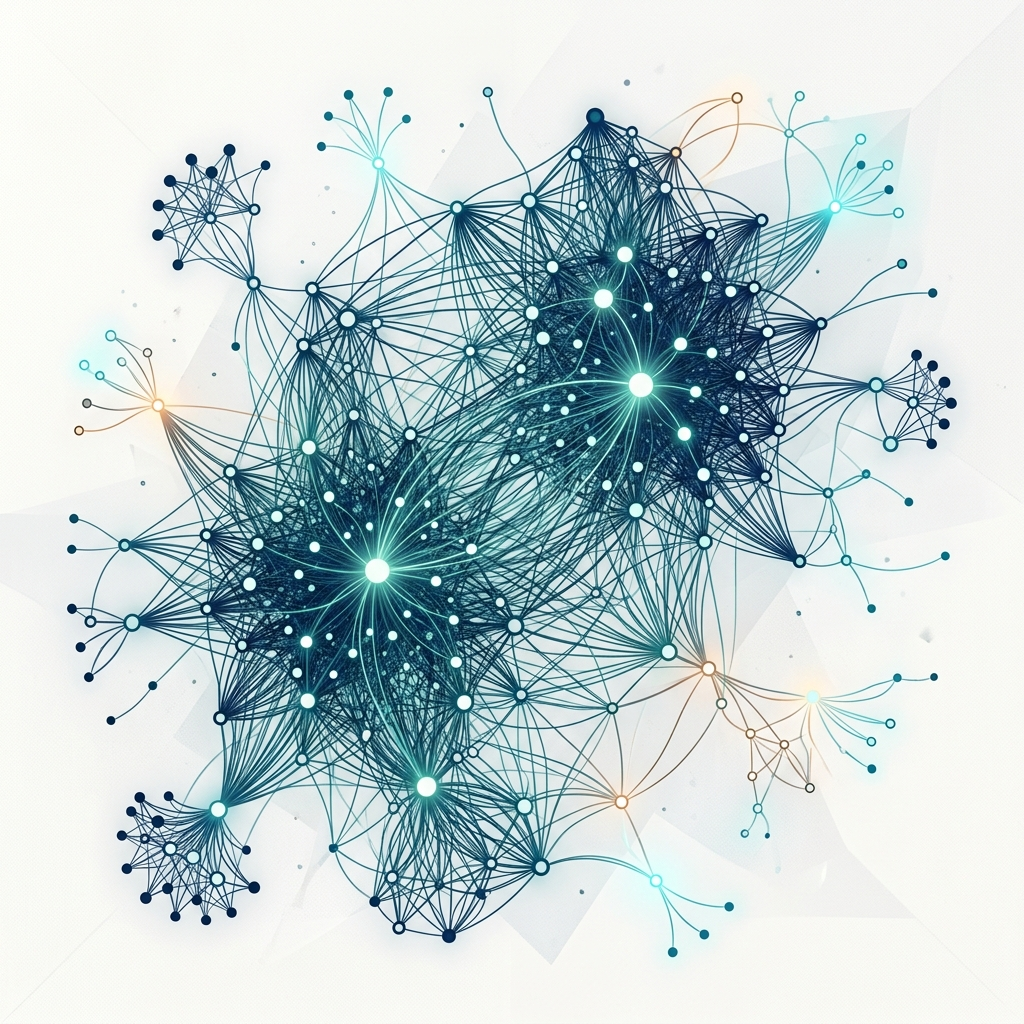
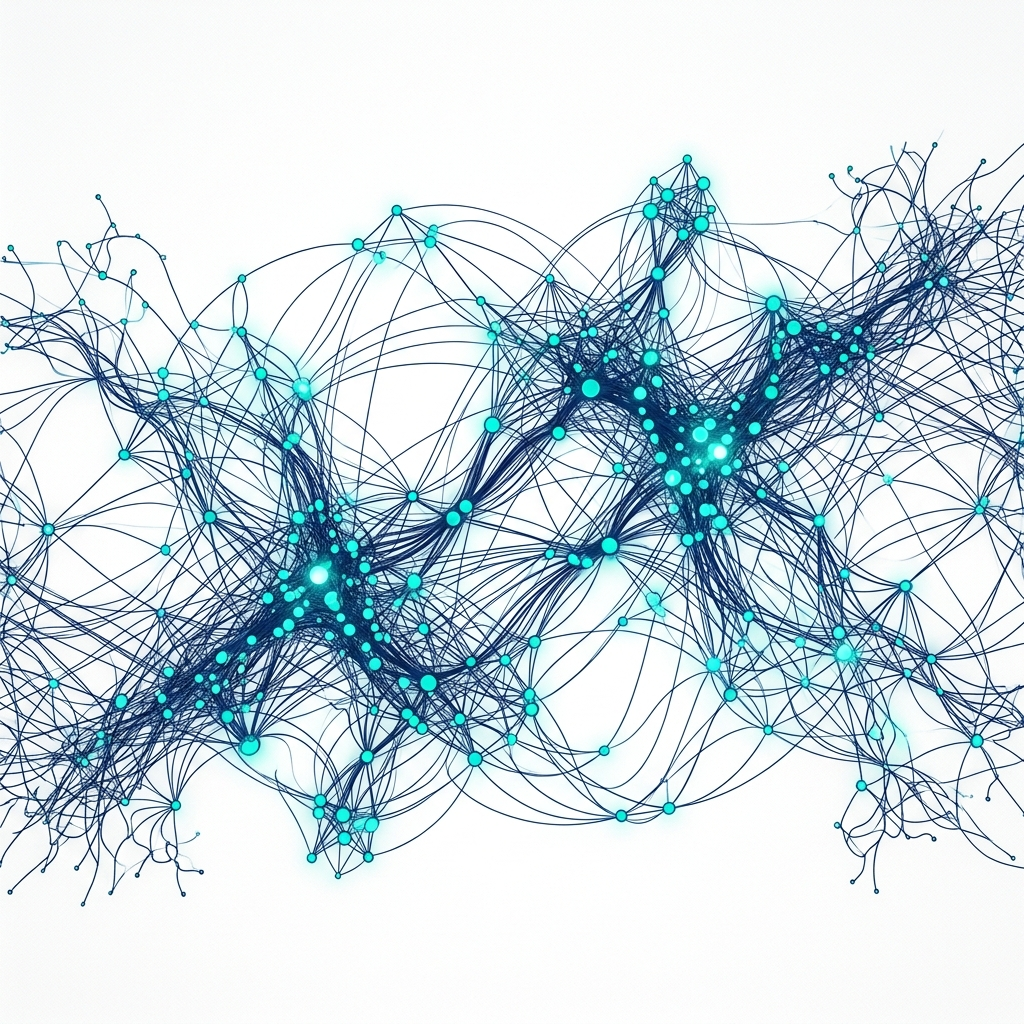
feat: update social media meta tags with absolute URLs and image dimensions

diff --git a/index.html b/index.html
@@ -12,12 +12,15 @@
     <!-- Social Media Meta Tags -->
     <meta property="og:title" content="Edge Cases: Surprising Applications in Network Science | CCS 2026">
     <meta property="og:description" content="Join us at CCS 2026 for Edge Cases: a satellite symposium exploring novel applications of Network Science in surprising and unconventional domains.">
-    <meta property="og:image" content="media/thumbnail.png">
+    <meta property="og:image" content="https://edgecases2026.org/media/thumbnail.png">
+    <meta property="og:image:width" content="1200">
+    <meta property="og:image:height" content="630">
+    <meta property="og:url" content="https://edgecases2026.org">
     <meta property="og:type" content="website">
     <meta name="twitter:card" content="summary_large_image">
     <meta name="twitter:title" content="Edge Cases: CCS 2026 Satellite">
     <meta name="twitter:description" content="A CCS 2026 satellite symposium exploring novel applications of Network Science in surprising and unconventional domains.">
-    <meta name="twitter:image" content="media/thumbnail.png">
+    <meta name="twitter:image" content="https://edgecases2026.org/media/thumbnail.png">
 
     <link rel="preconnect" href="https://fonts.googleapis.com">
     <link rel="preconnect" href="https://fonts.gstatic.com" crossorigin>